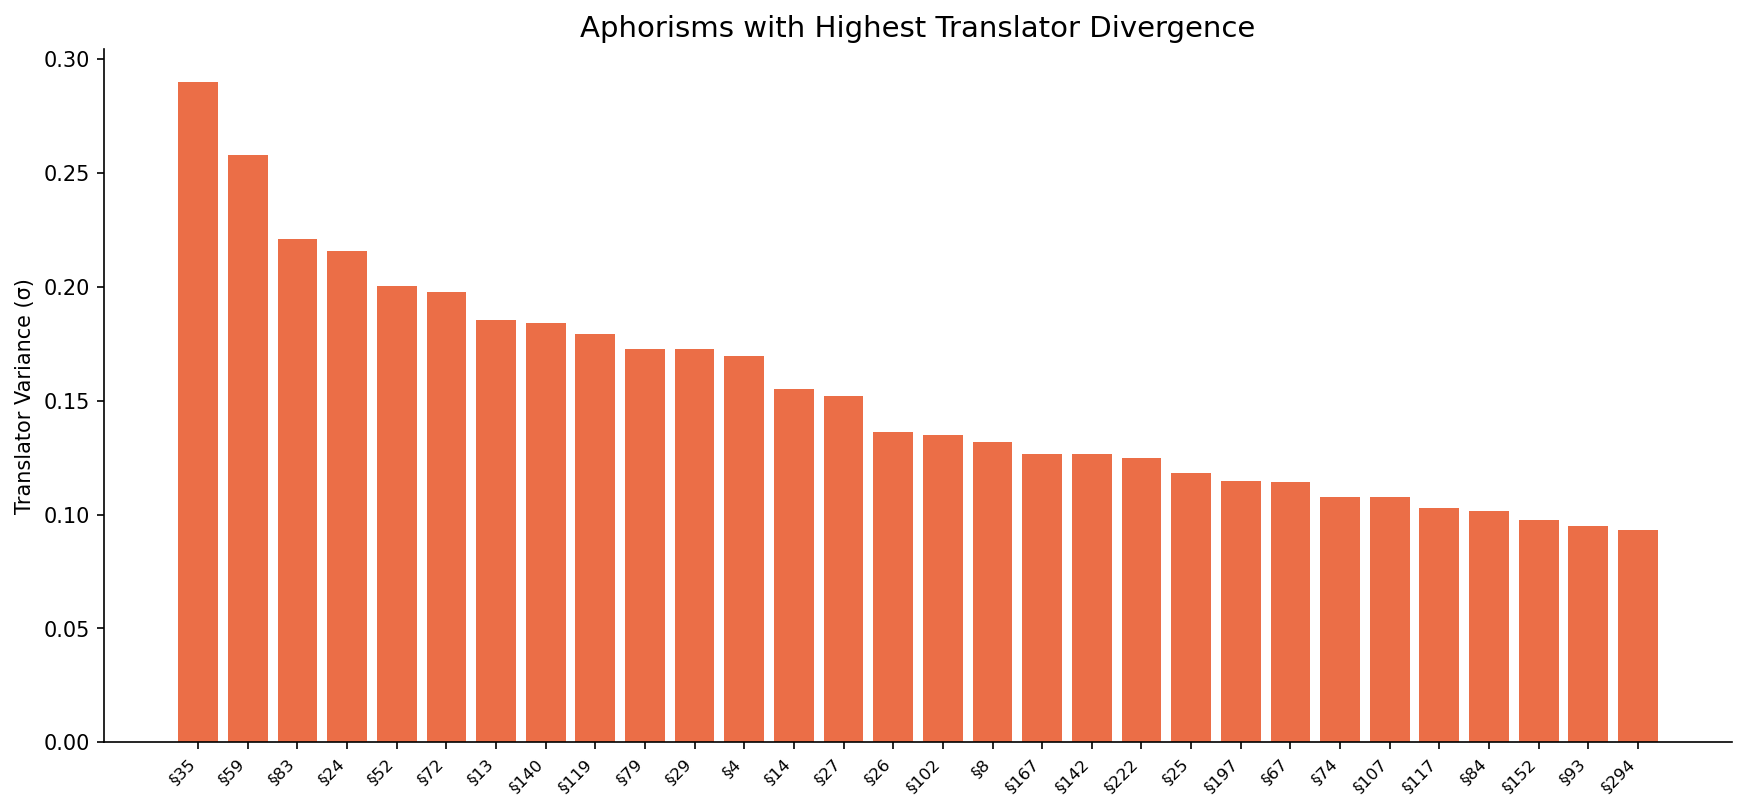
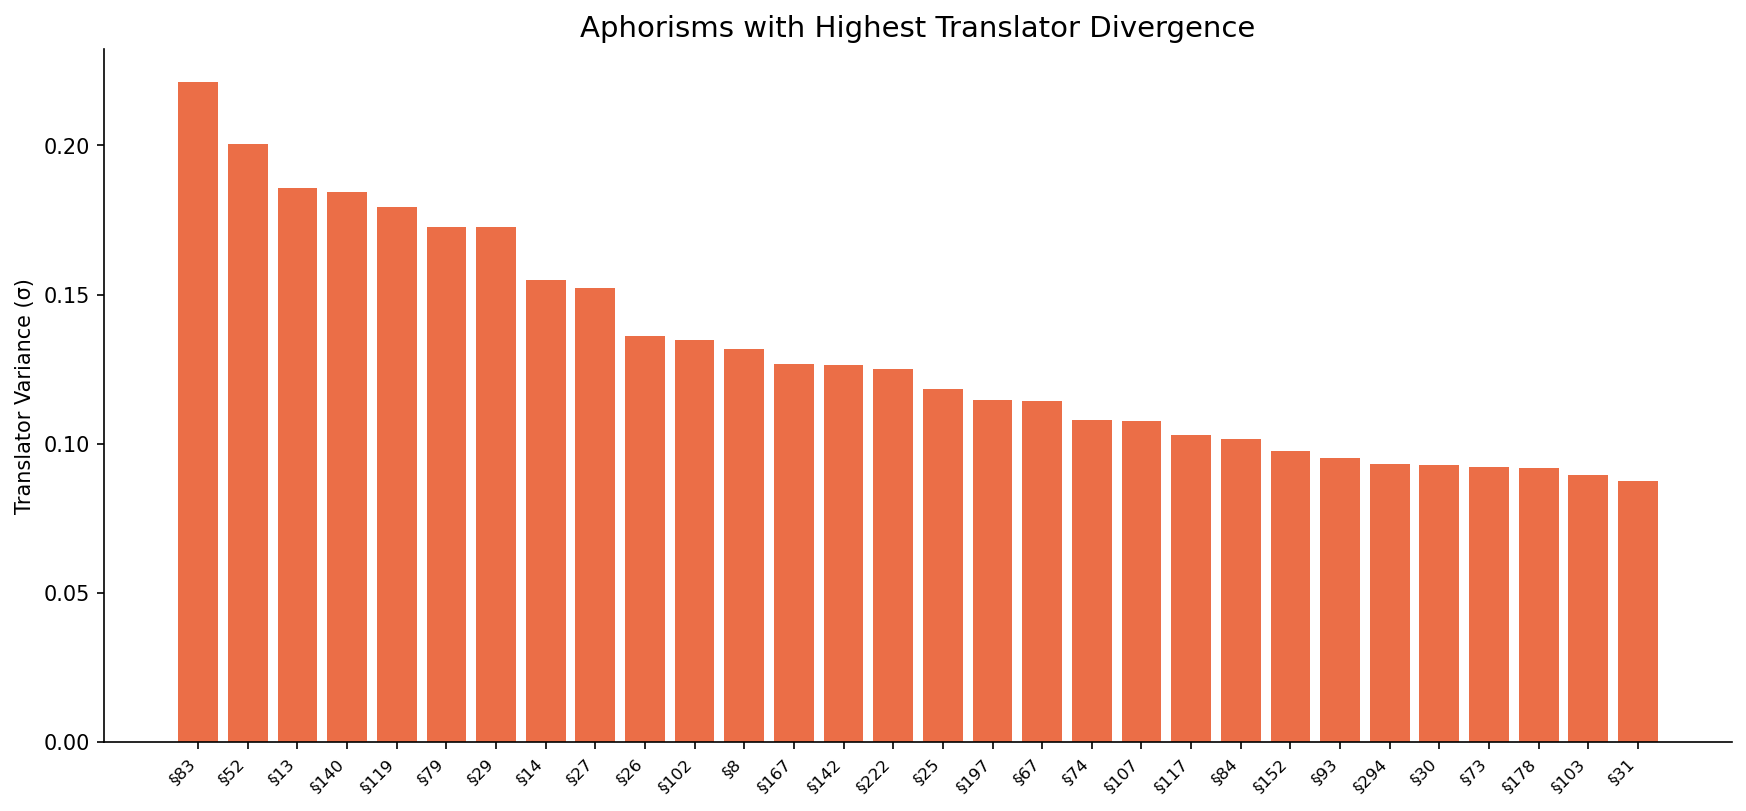
site update

diff --git a/site/src/app/page.js b/site/src/app/page.js
@@ -28,8 +28,8 @@ export default function Home() {
 
       <section className={styles.stats}>
         <div className={styles.stat}>
-          <span className={styles.statValue}>231</span>
-          <span className={styles.statLabel}>Aphorisms Aligned</span>
+          <span className={styles.statValue}>225</span>
+          <span className={styles.statLabel}>Aphorisms Analyzed</span>
         </div>
         <div className={styles.stat}>
           <span className={styles.statValue}>6</span>
@@ -54,7 +54,7 @@ export default function Home() {
       <section className={styles.vizSection}>
         <h2>Translator Fingerprints</h2>
         <p>
-          UMAP projection of 1,386 embeddings reveals distinct clusters.
+          UMAP projection of 1,356 embeddings reveals distinct clusters.
           Each translator leaves a stylistic signature the model can detect.
         </p>
         <div className={styles.vizContainer}>
@@ -125,7 +125,7 @@ export default function Home() {
         <div className={styles.divergenceList}>
           <div className={styles.divergenceItemHighlight}>
             <span className={styles.sectionNum}>§38</span>
-            <span className={styles.variance}>σ = 0.319</span>
+            <span className={styles.variance}>σ = 0.323</span>
             <p>French phrases, cultural critique</p>
           </div>
           <div className={styles.divergenceItem}>
@@ -135,7 +135,7 @@ export default function Home() {
           </div>
           <div className={styles.divergenceItem}>
             <span className={styles.sectionNum}>§74</span>
-            <span className={styles.variance}>σ = 0.242</span>
+            <span className={styles.variance}>σ = 0.251</span>
             <p>Genius requires gratitude</p>
           </div>
         </div>

diff --git a/site/src/components/DivergenceChart.js b/site/src/components/DivergenceChart.js
@@ -4,16 +4,16 @@ import { useState } from 'react'
 import { BarChart, Bar, XAxis, YAxis, Tooltip, ResponsiveContainer, Cell, ReferenceLine } from 'recharts'
 
 const data = [
-  { section: '§38', variance: 0.319, topic: 'French phrases, cultural critique' },
+  { section: '§38', variance: 0.323, topic: 'French phrases, cultural critique' },
+  { section: '§50', variance: 0.282, topic: 'Virtues of the common man' },
+  { section: '§74', variance: 0.251, topic: 'Genius requires gratitude' },
   { section: '§130', variance: 0.250, topic: 'Talent reveals character' },
-  { section: '§74', variance: 0.242, topic: 'Genius requires gratitude' },
-  { section: '§15', variance: 0.207, topic: 'Sensualist philosophers' },
+  { section: '§33', variance: 0.221, topic: 'Origin of freedom' },
+  { section: '§15', variance: 0.208, topic: 'Sensualist philosophers' },
   { section: '§117', variance: 0.156, topic: 'Will to overcome emotion' },
   { section: '§119', variance: 0.152, topic: 'Disgust with dirt' },
   { section: '§97', variance: 0.135, topic: 'Great man as actor' },
   { section: '§76', variance: 0.134, topic: 'Self-contempt' },
-  { section: '§126', variance: 0.134, topic: 'Peoples and fatherlands' },
-  { section: '§160', variance: 0.134, topic: 'Instinct' },
 ]
 
 const CustomTooltip = ({ active, payload }) => {

diff --git a/site/src/components/UMAPChart.js b/site/src/components/UMAPChart.js
@@ -7,12 +7,12 @@ import { ScatterChart, Scatter, XAxis, YAxis, ResponsiveContainer, Cell } from '
 // Each translator forms a distinct cluster, German at center
 function generateClusterData() {
   const clusters = {
-    German: { cx: 0, cy: 0, color: '#f4a623', count: 231 },
-    Hollingdale: { cx: 0.8, cy: 0.3, color: '#722f37', count: 231 },
-    Kaufmann: { cx: 1.0, cy: 0.5, color: '#c9784a', count: 231 },
-    Faber: { cx: 0.6, cy: 0.8, color: '#8b7355', count: 231 },
-    Norman: { cx: -0.5, cy: 0.9, color: '#5c8a4a', count: 231 },
-    Zimmern: { cx: -0.8, cy: -0.4, color: '#4a6a8b', count: 231 },
+    German: { cx: 0, cy: 0, color: '#f4a623', count: 226 },
+    Hollingdale: { cx: 0.8, cy: 0.3, color: '#722f37', count: 226 },
+    Kaufmann: { cx: 1.0, cy: 0.5, color: '#c9784a', count: 226 },
+    Faber: { cx: 0.6, cy: 0.8, color: '#8b7355', count: 226 },
+    Norman: { cx: -0.5, cy: 0.9, color: '#5c8a4a', count: 226 },
+    Zimmern: { cx: -0.8, cy: -0.4, color: '#4a6a8b', count: 226 },
   }
 
   const points = []
@@ -26,7 +26,7 @@ function generateClusterData() {
         y: config.cy + noise(),
         translator,
         color: config.color,
-        aphorism: Math.floor(Math.random() * 231) + 1
+        aphorism: Math.floor(Math.random() * 226) + 1
       })
     }
   })

diff --git a/site/src/components/MethodologyButton.js b/site/src/components/MethodologyButton.js
@@ -30,7 +30,7 @@ export default function MethodologyButton() {
           <div className="method-section">
             <h4>Corpus Alignment</h4>
             <p>
-              231 aphorisms aligned across 6 sources (5 English translations + German original).
+              225 aphorisms analyzed across 6 sources (5 English translations + German original).
               Texts extracted from PDFs via regex on aphorism markers. Set intersection ensures
               only aphorisms present in all translations are compared.
             </p>
@@ -59,7 +59,7 @@ export default function MethodologyButton() {
             <h4>Statistical Validation</h4>
             <p>
               Permutation test (10,000 iterations) with Benjamini-Hochberg FDR correction.
-              Top divergent passages: §35 (French phrases), §59 (short), §83 (ambiguous).
+              Top divergent passages: §38 (French phrases), §50, §83 (ambiguous).
               Divergence correlates with passage length (shorter = more ambiguous) and
               presence of foreign language phrases.
             </p>

diff --git a/src/visualize.py b/src/visualize.py
@@ -11,6 +11,9 @@ import umap
 import matplotlib.pyplot as plt
 from normalize import normalize_text
 
+# Aphorisms with corrupted/empty text in some translations (detected by LLM-as-Judge)
+CORRUPTED_APHORISMS = {4, 24, 35, 59, 72, 113}
+
 
 def load_corpus():
     """Load all translations."""
@@ -24,9 +27,9 @@ def load_corpus():
 
 def get_aligned_embeddings(corpus, model, normalize_german=True):
     """Get embeddings for all translators, aligned by aphorism number."""
-    # Find common aphorisms
+    # Find common aphorisms (excluding corrupted ones)
     all_nums = [set(a['number'] for a in t['aphorisms']) for t in corpus.values()]
-    common = sorted(set.intersection(*all_nums))
+    common = sorted(set.intersection(*all_nums) - CORRUPTED_APHORISMS)
 
     embeddings = {}
     aphorism_nums = common
@@ -37,9 +40,13 @@ def get_aligned_embeddings(corpus, model, normalize_german=True):
             for aph in data['aphorisms']:
                 if aph['number'] == num:
                     text = aph['text']
-                    if normalize_german and name == 'Gutenberg':
-                        text = normalize_text(text)
-                    texts.append(text)
+                    # Skip empty/corrupted texts
+                    if not text or len(text.strip()) < 20:
+                        texts.append('')  # Placeholder
+                    else:
+                        if normalize_german and name == 'Gutenberg':
+                            text = normalize_text(text)
+                        texts.append(text)
                     break
 
         embeddings[name] = model.encode(texts, normalize_embeddings=True, show_progress_bar=False)

diff --git a/src/generate_explorer_data.py b/src/generate_explorer_data.py
@@ -140,6 +140,9 @@ HEADER_MARKERS = ['BEYOND GOOD AND EVIL', 'CHAPTER', 'PART ONE', 'PART TWO',
                   'PART THREE', 'PART FOUR', 'Part Three', 'Part Four',
                   'Zarathustra', 'THE END']
 
+# Aphorisms with corrupted/empty text in some translations (detected by LLM-as-Judge)
+CORRUPTED_APHORISMS = {4, 24, 35, 59, 72, 113}
+
 
 def load_corpus(name: str) -> dict:
     """Load corpus JSON and return {aphorism_number: text}"""
@@ -240,13 +243,17 @@ def compute_divergences(n_aphorisms: int) -> list:
 
     divergences = []
     for i in range(n_aphorisms):
+        aph_num = i + 1
+        # Skip corrupted aphorisms (artificially inflate divergence due to empty text)
+        if aph_num in CORRUPTED_APHORISMS:
+            continue
         embs = [e[i] for e in embeddings]
         sims = []
         for j in range(6):
             for k in range(j + 1, 6):
                 sim = np.dot(embs[j], embs[k]) / (np.linalg.norm(embs[j]) * np.linalg.norm(embs[k]))
                 sims.append(float(sim))
-        divergences.append((i + 1, float(np.std(sims))))
+        divergences.append((aph_num, float(np.std(sims))))
 
     return sorted(divergences, key=lambda x: -x[1])
 

diff --git a/src/statistical_tests.py b/src/statistical_tests.py
@@ -10,6 +10,9 @@ from sentence_transformers import SentenceTransformer
 from normalize import normalize_text
 from scipy import stats
 
+# Aphorisms with corrupted/empty text in some translations (detected by LLM-as-Judge)
+CORRUPTED_APHORISMS = {4, 24, 35, 59, 72, 113}
+
 
 def load_corpus():
     corpus = {}
@@ -22,7 +25,7 @@ def load_corpus():
 
 def get_aligned_embeddings(corpus, model, normalize_german=True):
     all_nums = [set(a['number'] for a in t['aphorisms']) for t in corpus.values()]
-    common = sorted(set.intersection(*all_nums))
+    common = sorted(set.intersection(*all_nums) - CORRUPTED_APHORISMS)
 
     embeddings = {}
     for name, data in corpus.items():
